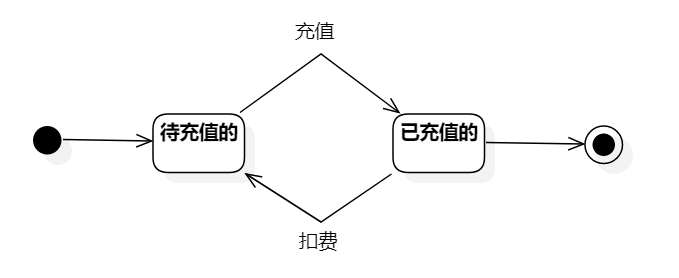
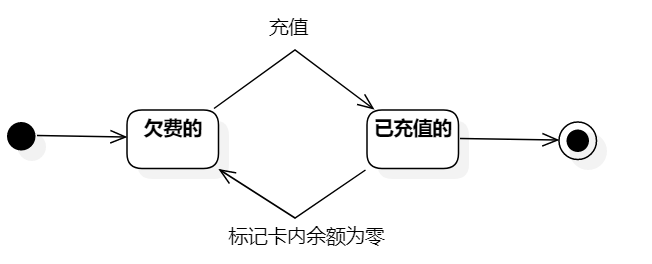
#7 #560 实验七：状态建模(第二次修改)

Changed region(s): [[0.0, 0.1818, 0.9202, 0.9394], [0.3988, 0.0606, 0.4908, 0.1515], [0.4908, 0.6667, 0.5521, 0.7576]]

diff --git a/students/1714080902135/lab7.md b/students/1714080902135/lab7.md
@@ -12,7 +12,7 @@
 1. 寻找系统中的一个重要的对象。
 - 热水卡
 2. 确定热水卡的所有重要状态。
-- 待充值的
+- 欠费的
 - 已充值的
 3. 画出各个状态之间的转变条件。
 
